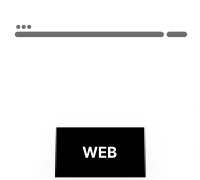
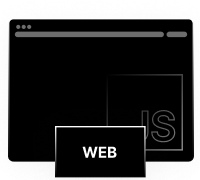
update resources

diff --git a/web/components/home-hover-card.tsx b/web/components/home-hover-card.tsx
@@ -1,6 +1,6 @@
 'use client'
-import SyntaxHighlighter from 'react-syntax-highlighter';
-import { dracula } from 'react-syntax-highlighter/dist/esm/styles/prism';
+import { Prism as SyntaxHighlighter } from 'react-syntax-highlighter';
+import { atomDark as scheme } from 'react-syntax-highlighter/dist/esm/styles/prism';
 
 
 import React from 'react';
@@ -9,14 +9,19 @@ import styled from "@emotion/styled"
 import Image from 'next/image';
 import { examples } from "@/k"
 import Link from 'next/link';
+import LineMotion from '@/motions/electron';
 
 export function HomeCardExample() {
   return <HomeCardWrapper className='max-w-lg w-auto p-4 border border-white/10 rounded-xl flex flex-col gap-4 bg-black items-stretch'>
-    <div className='flex pl-8 pr-8 flex-row gap-2 justify-between select-none pointer-events-none'>
-      <Image src='/assets/home-demo-0-illust-0-web.png' width={100} height={90} alt='' />
-      <Image src='/assets/home-demo-0-illust-1-cloud.png' width={100} height={90} alt='' />
-      <Image src='/assets/home-demo-0-illust-2-server.png' width={100} height={90} alt='' />
+    <div className='relative flex pl-8 pr-8 flex-row gap-2 justify-between select-none pointer-events-none'>
+      <div className='absolute inset-0 translate-y-1/2 ml-16 mr-16'>
+        <LineMotion />
+      </div>
+      <Image className='z-10' src='/assets/home-demo-0-illust-0-web.png' width={100} height={90} alt='' />
+      <Image className='z-10' src='/assets/home-demo-0-illust-1-cloud.png' width={100} height={90} alt='' />
+      <Image className='z-10' src='/assets/home-demo-0-illust-2-server.png' width={100} height={90} alt='' />
     </div>
+
     <div className='text-[10px] lg:text-xs rounded-lg overflow-scroll max-w-xs md:max-w-sm lg:max-w-2xl' style={{
       background: '#08070E',
       border: 'rgba(144, 175, 255, 0.1) 1px solid'
@@ -26,11 +31,10 @@ export function HomeCardExample() {
         customStyle={{
           width: 'auto',
           background: 'transparent',
+          opacity: 0.8
         }}
-        language='javascript'
-        style={{
-          ...dracula,
-        }}>
+        language='typescript'
+        style={scheme}>
         {examples.fetch('https://example.com')}
       </SyntaxHighlighter>
     </div>

diff --git a/web/motions/electron/index.tsx b/web/motions/electron/index.tsx
@@ -1,0 +1,41 @@
+import React from "react";
+import { motion } from "framer-motion";
+
+const LineAnimation = () => {
+  // Define the motion variant for the moving light effect
+  const motionVariant = {
+    animate: {
+      backgroundPosition: ["0% 50%", "100% 50%", "0% 50%"],
+      transition: {
+        duration: 1,
+        ease: "linear",
+        repeat: Infinity,
+      },
+    }
+  };
+
+  return (
+    <motion.div
+      variants={motionVariant}
+      initial="animate"
+      animate="animate"
+      style={{
+        height: "2px",
+        overflow: "hidden",
+        backgroundColor: "transparent",
+        position: "relative",
+        border: "none",
+        // The gradient color effect
+        backgroundImage: `linear-gradient(
+          to right,
+          transparent,
+          rgba(255, 255, 255, 0.75) 50%,
+          transparent 100%
+        )`,
+        backgroundSize: "200% 100%",
+      }}
+    />
+  );
+};
+
+export default LineAnimation;

diff --git a/web/app/page.tsx b/web/app/page.tsx
@@ -6,7 +6,7 @@ export default function Home() {
   return (
     <main className="max-w-screen-xl overflow-x-hidden m-auto flex min-h-screen flex-col items-center md:items-stretch justify-center p-10 text-center md:text-start">
       <div id='background' className='fixed -z-10 inset-0 select-none pointer-events-none'>
-        <Image src="/assets/background.svg" fill alt='' objectFit='cover' />
+        <Image src="/assets/background.svg" fill alt='background graphic' />
       </div>
       <div className='flex flex-col mb-40 mt-40 md:mb-0 md:mt-0 md:flex-row gap-20 justify-between items-center md:items-stretch'>
         <div className='flex flex-col gap-16 justify-center max-w-lg'>
